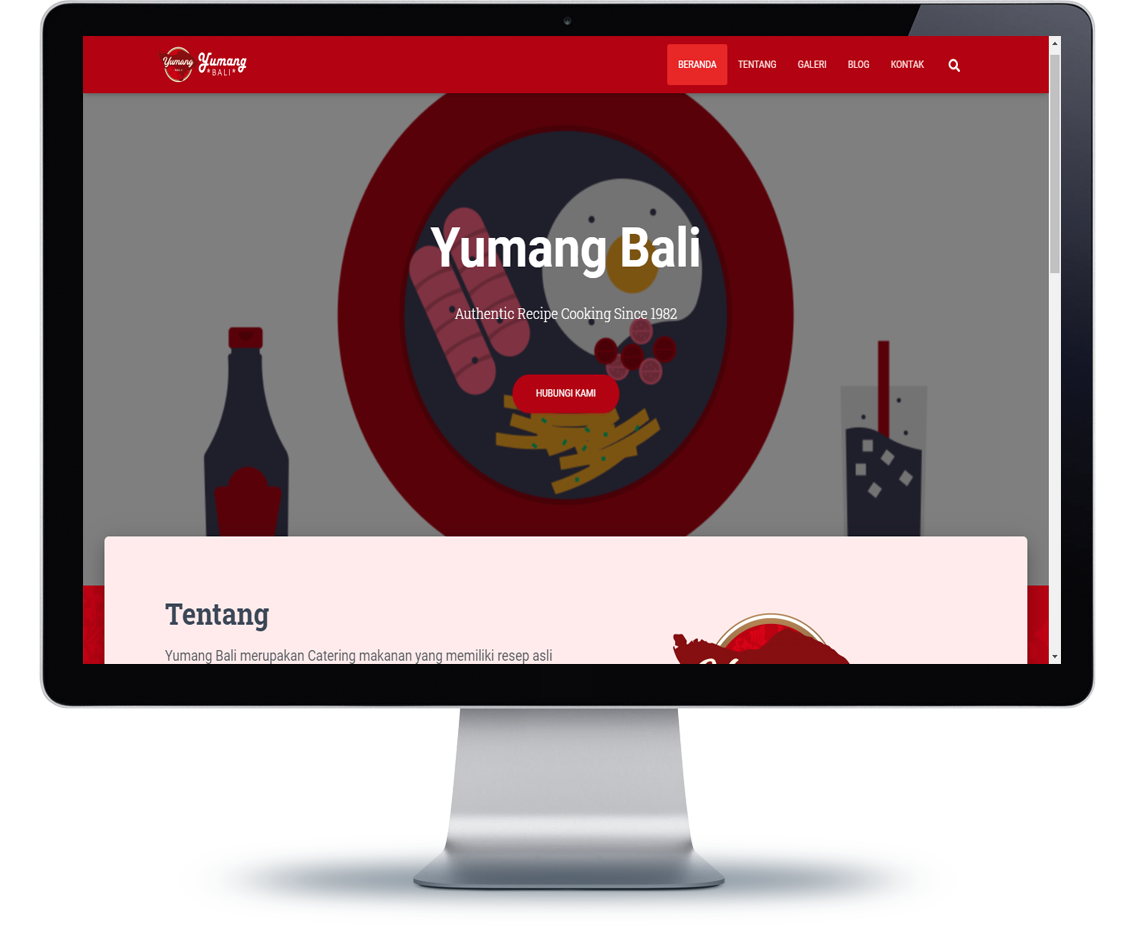
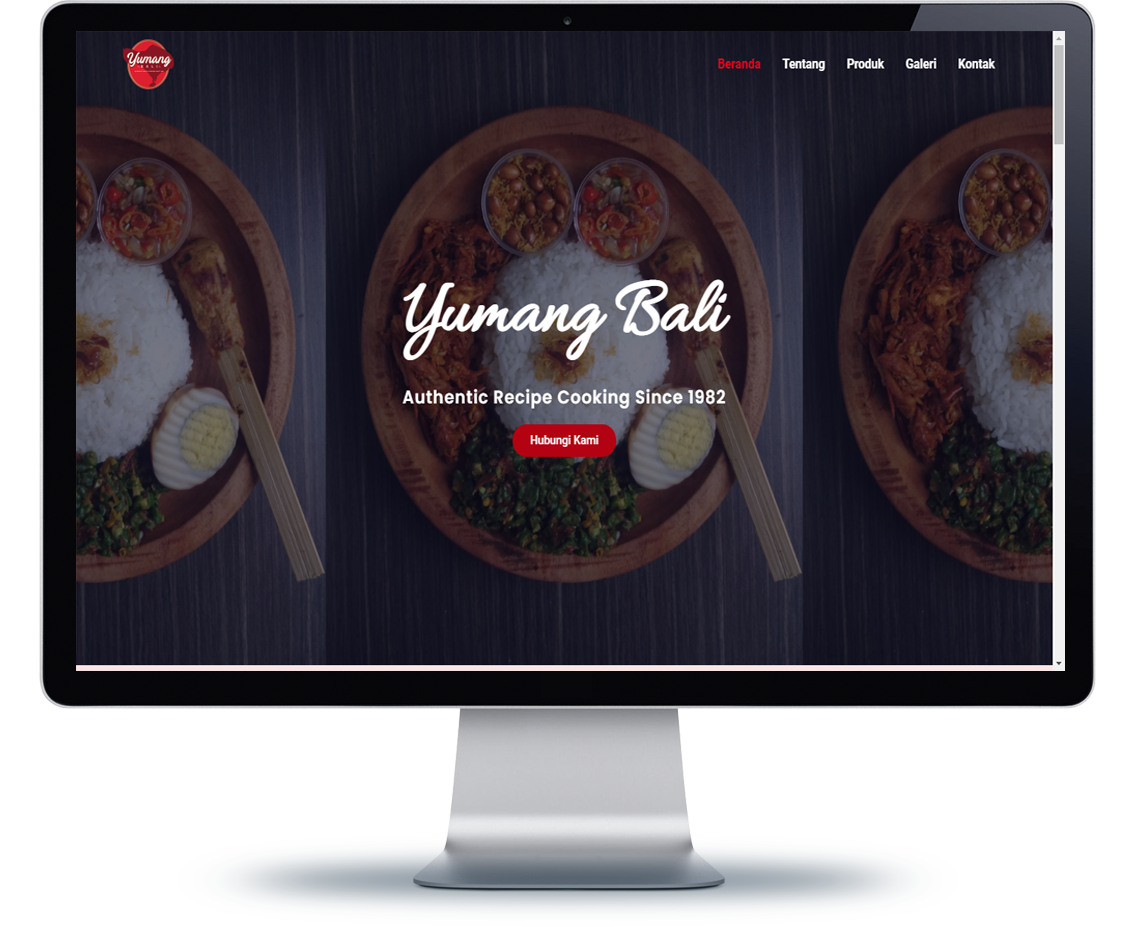
Portfolio

diff --git a/index.html b/index.html
@@ -78,7 +78,7 @@
                         </li>
                         <li class="nav-item me-4">
                             <a class="nav-link"
-                                href="#aboutus">Tentang</a>
+                                href="#experience">Pengalaman</a>
                         </li>
                         <li class="nav-item me-4">
                             <a class="nav-link"
@@ -139,10 +139,102 @@
         </div>
     </section>
 
-    <section id="aboutus" class="mb-5 mb-md-0">
+    <section id="experience" class="mb-5 mb-md-0">
         <div class="container-fluid p-3 p-md-5">
+            <div class="py-5">
+                <h2 class="text-center text-blue-35">Pengalaman</h2>
+            </div>
             <div class="px-md-5">
-                <div class="d-none d-md-block mb-5">
+
+                <div class="main-timeline">
+
+                    <!-- start experience section-->
+                    <div class="timeline">
+                        <div class="icon"></div>
+                        <div class="date-content">
+                            <div class="date-outer">
+                                <span class="date">
+                                        <span class="month">2 Bulan</span>
+                                <span class="year">2018</span>
+                                </span>
+                            </div>
+                        </div>
+                        <div class="timeline-content">
+                            <h5 class="title">Magang</h5>
+                            <p class="description">
+                                Pada bulan Juli-Agustus 2018 saya pernah magang di perusahaan GeekGarden Software House Yogyakarta.
+                                Selama magang saya bersama kelompok membuat website portal berita menggunakan Framework Laravel.
+                            </p>
+                        </div>
+                    </div>
+                    <!-- end experience section-->
+
+                    <!-- start experience section-->
+                    <div class="timeline">
+                        <div class="icon"></div>
+                        <div class="date-content">
+                            <div class="date-outer">
+                                <span class="date">
+                                        <span class="month">1,4 Tahun</span>
+                                        <br>
+                                <span class="month">2019-2020</span>
+                                </span>
+                            </div>
+                        </div>
+                        <div class="timeline-content">
+                            <h5 class="title">Freelancer Web Developer &amp; Design Graphic</h5>
+                            <p class="description">
+                                Sebelum saya lulus kuliah saya sering mengerjakan project freelance yang meliputi design graphic, video editing, ataupun pembuatan website
+                            </p>
+                        </div>
+                    </div>
+                    <!-- end experience section-->
+
+                    <!-- start experience section-->
+                    <div class="timeline">
+                        <div class="icon"></div>
+                        <div class="date-content">
+                            <div class="date-outer">
+                                <span class="date">
+                                        <span class="month">6 Bulan</span>
+                                <span class="year">2021</span>
+                                </span>
+                            </div>
+                        </div>
+                        <div class="timeline-content">
+                            <h5 class="title">Laravel Developer</h5>
+                            <p class="description">
+                                Pada tahun 2021 bulan januari-juli saya bekerja di perusahaan PT Deeeplabs Solusi Indonesia yang merupakan perusahaan Start Up. Posisi saya sebagai Laravel developer,
+                                tetapi saya juga terkadang ditempatkan sebagai frontend developer.
+                            </p>
+                        </div>
+                    </div>
+                    <!-- end experience section-->
+
+                    <!-- start experience section-->
+                    <div class="timeline">
+                        <div class="icon"></div>
+                        <div class="date-content">
+                            <div class="date-outer">
+                                <span class="date">
+                                        <span class="month">Sekarang</span>
+                                <span class="year">2021</span>
+                                </span>
+                            </div>
+                        </div>
+                        <div class="timeline-content">
+                            <h5 class="title">Freelancer AlfaraDev</h5>
+                            <p class="description">
+                                Pada februari 2021 saya bersama teman-teman membentuk sebuah tim yang bernama Alfara Dev yang menangani
+                                jasa pembuatan website, aplikasi android, UI/UX Design.
+                            </p>
+                        </div>
+                    </div>
+                    <!-- end experience section-->
+
+
+                </div>
+                <!-- <div class="d-none d-md-block mb-5">
                     <div class="row mb-5">
                         <div class="col-sm-12 col-md-6 mb-3 mb-md-0 photos px-md-5" data-aos="fade-down">
                             <a href="assets/img/hero/afifm.png" data-lightbox="photos">
@@ -185,7 +277,7 @@
                             </p>
                         </div>
                     </div>
-                </div>
+                </div> -->
             </div>
         </div>
     </section>
@@ -1701,7 +1793,7 @@
                 <div class="modal-dialog modal-dialog-centered" role="document">
                     <div class="modal-content">
                         <div class="modal-header">
-                            <h5 class="modal-title" id="title">Web Charcoal Heaven</h5>
+                            <h5 class="modal-title" id="title">Web PT Masarin Exim Bersama</h5>
                             <button type="button" class="btn-close" data-bs-dismiss="modal" aria-label="Close">
 
                             </button>

diff --git a/assets/styles/styles.css b/assets/styles/styles.css
@@ -1350,3 +1350,252 @@ ul.timeline > li:before {
 	margin-top:16px;
 }
 
+
+.main-timeline {
+    position: relative
+}
+
+.main-timeline:before {
+    content: "";
+    display: block;
+    width: 2px;
+    height: 100%;
+    background: #c6c6c6;
+    margin: 0 auto;
+    position: absolute;
+    top: 0;
+    left: 0;
+    right: 0
+}
+
+.main-timeline .timeline {
+    margin-bottom: 40px;
+    position: relative
+}
+
+.main-timeline .timeline:after {
+    content: "";
+    display: block;
+    clear: both
+}
+
+.main-timeline .icon {
+    width: 18px;
+    height: 18px;
+    line-height: 18px;
+    margin: auto;
+    position: absolute;
+    top: 0;
+    left: 0;
+    bottom: 0;
+    right: 0
+}
+
+.main-timeline .icon:before,
+.main-timeline .icon:after {
+    content: "";
+    width: 100%;
+    height: 100%;
+    border-radius: 50%;
+    position: absolute;
+    top: 0;
+    left: 0;
+    transition: all 0.33s ease-out 0s
+}
+
+.main-timeline .icon:before {
+    background: #fff;
+    border: 2px solid #232323;
+    left: -3px
+}
+
+.main-timeline .icon:after {
+    border: 2px solid #c6c6c6;
+    left: 3px
+}
+
+.main-timeline .timeline:hover .icon:before {
+    left: 3px
+}
+
+.main-timeline .timeline:hover .icon:after {
+    left: -3px
+}
+
+.main-timeline .date-content {
+    width: 50%;
+    float: left;
+    margin-top: 22px;
+    position: relative
+}
+
+.main-timeline .date-content:before {
+    content: "";
+    width: 36.5%;
+    height: 2px;
+    background: #c6c6c6;
+    margin: auto 0;
+    position: absolute;
+    top: 0;
+    right: 10px;
+    bottom: 0
+}
+
+.main-timeline .date-outer {
+    width: 125px;
+    height: 125px;
+    font-size: 16px;
+    text-align: center;
+    margin: auto;
+    z-index: 1
+}
+
+.main-timeline .date-outer:before,
+.main-timeline .date-outer:after {
+    content: "";
+    width: 125px;
+    height: 125px;
+    margin: 0 auto;
+    border-radius: 50%;
+    position: absolute;
+    top: 0;
+    left: 0;
+    right: 0;
+    transition: all 0.33s ease-out 0s
+}
+
+.main-timeline .date-outer:before {
+    background: #fff;
+    border: 2px solid #232323;
+    left: -6px
+}
+
+.main-timeline .date-outer:after {
+    border: 2px solid #c6c6c6;
+    left: 6px
+}
+
+.main-timeline .timeline:hover .date-outer:before {
+    left: 6px
+}
+
+.main-timeline .timeline:hover .date-outer:after {
+    left: -6px
+}
+
+.main-timeline .date {
+    width: 100%;
+    margin: auto;
+    position: absolute;
+    top: 27%;
+    left: 0
+}
+
+.main-timeline .month {
+    font-size: 18px;
+    font-weight: 700
+}
+
+.main-timeline .year {
+    display: block;
+    font-size: 30px;
+    font-weight: 700;
+    color: #232323;
+    line-height: 36px
+}
+
+.main-timeline .timeline-content {
+    width: 50%;
+    padding: 20px 0 20px 50px;
+    float: right
+}
+
+.main-timeline .title {
+    font-size: 19px;
+    font-weight: 700;
+    line-height: 24px;
+    margin: 0 0 15px 0
+}
+
+.main-timeline .description {
+    margin-bottom: 0
+}
+
+.main-timeline .timeline:nth-child(2n) .date-content {
+    float: right
+}
+
+.main-timeline .timeline:nth-child(2n) .date-content:before {
+    left: 10px
+}
+
+.main-timeline .timeline:nth-child(2n) .timeline-content {
+    padding: 20px 50px 20px 0;
+    text-align: right
+}
+
+@media only screen and (max-width: 991px) {
+    .main-timeline .date-content {
+        margin-top: 35px
+    }
+    .main-timeline .date-content:before {
+        width: 22.5%
+    }
+    .main-timeline .timeline-content {
+        padding: 10px 0 10px 30px
+    }
+    .main-timeline .title {
+        font-size: 17px
+    }
+    .main-timeline .timeline:nth-child(2n) .timeline-content {
+        padding: 10px 30px 10px 0
+    }
+}
+
+@media only screen and (max-width: 767px) {
+    .main-timeline:before {
+        margin: 0;
+        left: 7px
+    }
+    .main-timeline .timeline {
+        margin-bottom: 20px
+    }
+    .main-timeline .timeline:last-child {
+        margin-bottom: 0
+    }
+    .main-timeline .icon {
+        margin: auto 0
+    }
+    .main-timeline .date-content {
+        width: 95%;
+        float: right;
+        margin-top: 0
+    }
+    .main-timeline .date-content:before {
+        display: none
+    }
+    .main-timeline .date-outer {
+        width: 110px;
+        height: 110px
+    }
+    .main-timeline .date-outer:before,
+    .main-timeline .date-outer:after {
+        width: 110px;
+        height: 110px
+    }
+    .main-timeline .date {
+        top: 30%
+    }
+    .main-timeline .year {
+        font-size: 24px
+    }
+    .main-timeline .timeline-content,
+    .main-timeline .timeline:nth-child(2n) .timeline-content {
+        width: 95%;
+        text-align: center;
+        padding: 10px 0
+    }
+    .main-timeline .title {
+        margin-bottom: 10px
+    }
+}
